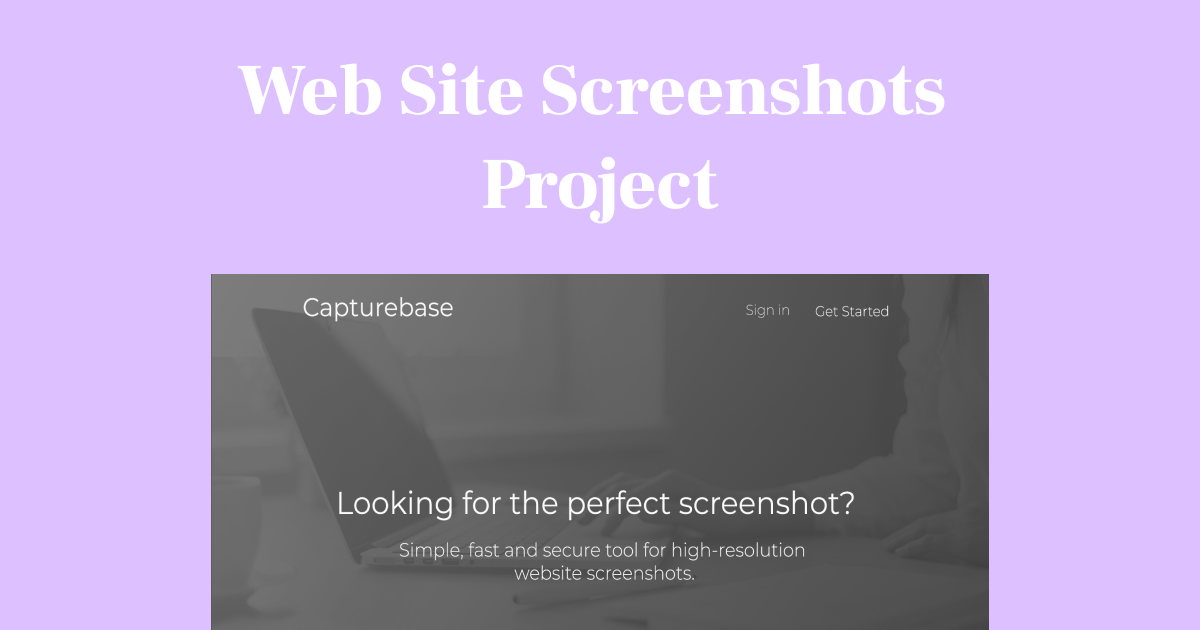
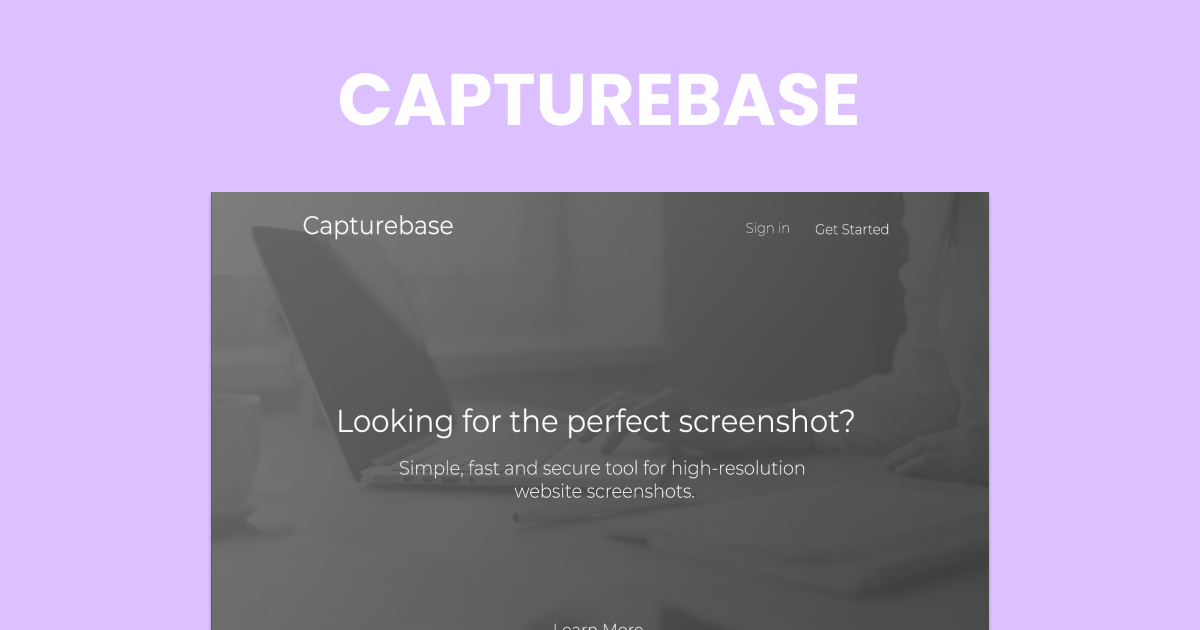
Add info

diff --git a/porfolio2.html b/porfolio2.html
@@ -73,8 +73,11 @@
                         </p>
                         <label>Screenshots from the old website.</label>
                         <img class="article-images" src="../assets/img/portfolio/article-images/old_website1.png" />
+                        <a href="../assets/img/portfolio/article-images/old_website1.png" data-gallery="portfolioGallery" class="portfolio-lightbox zoom" title="FSS"><i class="bi bi-zoom-in"></i> Zoom in</a>
                         <img class="article-images" src="../assets/img/portfolio/article-images/old_website2.png" />
+                        <a href="./assets/img/portfolio/article-images/old_website2.png" data-gallery="portfolioGallery" class="portfolio-lightbox zoom" title="FSS"><i class="bi bi-zoom-in"></i> Zoom in</a>
                         <img class="article-images" src="../assets/img/portfolio/article-images/old_website3.png" />
+                        <a href="../assets/img/portfolio/article-images/old_website3.png" data-gallery="portfolioGallery" class="portfolio-lightbox zoom" title="FSS"><i class="bi bi-zoom-in"></i>Zoom in</a>
                         <h2>Team</h2>
                         <p>To be the work done we formed a workgroup of 5 people:</p>
                         <ul>
@@ -110,19 +113,24 @@
                             a sitemap of it.
                         </p>
                         <img class="article-images" src="../assets/img/portfolio/article-images/old_structure.png" />
+                        <a href="../assets/img/portfolio/article-images/old_structure.png" data-gallery="portfolioGallery" class="portfolio-lightbox zoom" title="FSS"><i class="bi bi-zoom-in"></i>Zoom in</a>
                         <p>
                             And after we discuss what changes we will do and who will take what
                             section to edit I have created a new sitemap.
                         </p>
                         <img class="article-images" src="../assets/img/portfolio/article-images/new_structure_v.1.png" />
+                        <a href="../assets/img/portfolio/article-images/new_structure_v.1.png" data-gallery="portfolioGallery" class="portfolio-lightbox zoom" title="FSS"><i class="bi bi-zoom-in"></i>Zoom in</a>
                         <p>
                             The next step I did was to create a mockup of our main(home) page
                             based on the statistics of the most visited pages of the site and what
                             the council want's
                         </p>
                         <img class="article-images" src="../assets/img/portfolio/article-images/mockup1.png" />
+                        <a href="../assets/img/portfolio/article-images/mockup1.png" data-gallery="portfolioGallery" class="portfolio-lightbox zoom" title="FSS"><i class="bi bi-zoom-in"></i>Zoom in</a>
                         <img class="article-images" src="../assets/img/portfolio/article-images/mockup2.png" />
+                        <a href="../assets/img/portfolio/article-images/mockup2.png" data-gallery="portfolioGallery" class="portfolio-lightbox zoom" title="FSS"><i class="bi bi-zoom-in"></i>Zoom in</a>
                         <img class="article-images" src="../assets/img/portfolio/article-images/mockup3.png" />
+                        <a href="../assets/img/portfolio/article-images/mockup3.png" data-gallery="portfolioGallery" class="portfolio-lightbox zoom" title="FSS"><i class="bi bi-zoom-in"></i>Zoom in</a>
                         <p>In the mockup there are 6 sections:</p>
                         <ol>
                             <li>
@@ -176,17 +184,17 @@
                             and will be ideal for our ideas.
                         </p>
                         <img class="article-images" src="../assets/img/portfolio/article-images/temp.png" />
+                        <a href="../assets/img/portfolio/article-images/temp.png" data-gallery="portfolioGallery" class="portfolio-lightbox zoom" title="FSS"><i class="bi bi-zoom-in"></i>Zoom in</a>
                         <p>We have tried few themes but finally decided to use Hestia, because the layout and
                             customization met our needs. </p>
                         <h1>Final look</h1>
                         <p>After 2 months of work, our new site was ready.
-                            ....and this was the final result you can see here <a href="https://fss.fmi.uni-sofia.bg/">https://fss.fmi.uni-sofia.bg/</a>
+                             The final result you can see here <a class="zoom" href="https://fss.fmi.uni-sofia.bg/">https://fss.fmi.uni-sofia.bg/</a>
                         </p>
                         <img class="article-images" src="../assets/img/portfolio/article-images/image1.png" />
+                        <a href="../assets/img/portfolio/article-images/image1.png" data-gallery="portfolioGallery" class="portfolio-lightbox zoom" title="FSS"><i class="bi bi-zoom-in"></i>Zoom in</a>
                         <img class="article-images" src="../assets/img/portfolio/article-images/image2.png" />
-
-
-
+                        <a href="../assets/img/portfolio/article-images/image2.png" data-gallery="portfolioGallery" class="portfolio-lightbox zoom" title="FSS"><i class="bi bi-zoom-in"></i>Zoom in</a>
                     </div>
                 </div>
             </div>

diff --git a/index.html b/index.html
@@ -86,15 +86,13 @@
           <h3>Hello, I'm Adelina</h3>
           <p class="fst-italic">
             Currently a student at the Faculty of Mathematics and Informatics at Sofia University with a great desire to
-            develop in the field of UX / UI.
-
-            I have been interested in information technology since I was a child. In high school I participated in
-            various hackathons, competitions related to programming and extracurricular web programming course. I
-            organized and volunteered in events related to motivating and helping more women to learn about the
-            possibilities of the IT field. During the first 3 years of my studies, I actively participated in the
-            organization of various university initiatives as a member of the faculty student council. During my
-            internship as a Back-End developer, I learned a lot about the processes in a company, teamwork and software
-            development.
+            develop in the field of UX / UI. I have been interested in information technology since I was a child. In
+            high school, I participated in various hackathons, competitions related to programming, and extracurricular
+            web programming courses. I organized and volunteered in events related to motivating and helping more women
+            to learn about the possibilities of the IT field. During the first 3 years of my studies, I actively
+            participated in the organization of various university initiatives as a member of the faculty student
+            council. During my internship as a Back-End developer, I learned a lot about the processes in a company,
+            teamwork, and software development.
           </p>
           <div class="row">
             <div class="col-lg-6">
@@ -418,15 +416,25 @@
         <div class="col-lg-12 d-flex justify-content-center">
           <ul id="portfolio-flters">
             <li data-filter="*" class="filter-active">All</li>
-            <li data-filter=".filter-app">Redesign</li>
             <li data-filter=".filter-card">Case Study</li>
+            <li data-filter=".filter-app">Redesign</li>
             <li data-filter=".filter-web">Design</li>
           </ul>
         </div>
       </div>
 
       <div class="row portfolio-container">
-
+        <div class="col-lg-6 col-md-8 portfolio-item filter-card">
+          <div class="portfolio-wrap">
+            <img src="assets/img/portfolio/zh.png" class="img-fluid" alt="">
+            <div class="portfolio-info">
+              <div class="portfolio-links">
+                <a href="porfolio3.html" data-gallery="portfolioDetailsGallery" data-glightbox="type: external"
+                  class="portfolio-details-lightbox one" title="Portfolio Details">Read More
+              </div>
+            </div>
+          </div>
+        </div>
         <div class="col-lg-6 col-md-8 portfolio-item filter-app">
           <div class="portfolio-wrap">
             <img src="assets/img/portfolio/fss.png" class="img-fluid" alt="">
@@ -441,8 +449,6 @@
             </div>
           </div>
 
-          
-
         </div>
         <div class="col-lg-6 col-md-8 portfolio-item filter-web">
           <div class="portfolio-wrap">
@@ -450,11 +456,12 @@
             <div class="portfolio-info">
               <div class="portfolio-links">
                 <a href="portfolio-details.html" data-gallery="portfolioDetailsGallery" data-glightbox="type: external"
-                class="portfolio-details-lightbox one" title="Portfolio Details">Read More
+                  class="portfolio-details-lightbox one" title="Portfolio Details">Read More
               </div>
             </div>
           </div>
-        </div>  
+        </div>
+
       </div>
   </section><!-- End Portfolio Section -->
 
@@ -489,7 +496,7 @@
         </div>
 
 
-        <form action="forms/contact.php" method="post" role="form" class="php-email-form mt-4">
+        <!-- <form action="forms/contact.php" method="post" role="form" class="php-email-form mt-4">
           <div class="row">
             <div class="col-md-6 form-group">
               <input type="text" name="name" class="form-control" id="name" placeholder="Your Name" required>
@@ -510,7 +517,10 @@
             <div class="sent-message">Your message has been sent. Thank you!</div>
           </div>
           <div class="text-center"><button type="submit">Send Message</button></div>
-        </form>
+        </form> -->
+        <iframe
+          src="https://docs.google.com/forms/d/e/1FAIpQLSe9indhkBLxfg8ffLvCKX89M5hnBgzJIbThuAJ_jv4DcCe_2Q/viewform?embedded=true"
+          width="640" height="512" frameborder="0" marginheight="0" marginwidth="0">Loading…</iframe>
 
       </div>
   </section><!-- End Contact Section -->

diff --git a/porfolio3.html b/porfolio3.html
@@ -1,0 +1,81 @@
+<!DOCTYPE html>
+<html lang="en">
+
+<head>
+    <meta charset="utf-8" />
+    <meta content="width=device-width, initial-scale=1.0" name="viewport" />
+
+    <title>Portfolio Details - Personal Bootstrap Template</title>
+    <meta content="" name="description" />
+    <meta content="" name="keywords" />
+
+    <!-- Favicons -->
+    <link href="assets/img/favicon.png" rel="icon" />
+    <link href="assets/img/apple-touch-icon.png" rel="apple-touch-icon" />
+
+    <!-- Google Fonts -->
+    <link
+        href="https://fonts.googleapis.com/css?family=Open+Sans:300,300i,400,400i,600,600i,700,700i|Raleway:300,300i,400,400i,500,500i,600,600i,700,700i|Poppins:300,300i,400,400i,500,500i,600,600i,700,700i"
+        rel="stylesheet" />
+
+    <!-- Vendor CSS Files -->
+    <link href="assets/vendor/bootstrap/css/bootstrap.min.css" rel="stylesheet" />
+    <link href="assets/vendor/bootstrap-icons/bootstrap-icons.css" rel="stylesheet" />
+    <link href="assets/vendor/boxicons/css/boxicons.min.css" rel="stylesheet" />
+    <link href="assets/vendor/glightbox/css/glightbox.min.css" rel="stylesheet" />
+    <link href="assets/vendor/remixicon/remixicon.css" rel="stylesheet" />
+    <link href="assets/vendor/swiper/swiper-bundle.min.css" rel="stylesheet" />
+
+    <!-- Template Main CSS File -->
+    <link href="assets/css/style.css" rel="stylesheet" />
+
+    <!-- =======================================================
+  * Template Name: Personal - v4.6.0
+  * Template URL: https://bootstrapmade.com/personal-free-resume-bootstrap-template/
+  * Author: BootstrapMade.com
+  * License: https://bootstrapmade.com/license/
+  ======================================================== -->
+</head>
+
+<body>
+    <main id="main">
+        <!-- ======= Portfolio Details ======= -->
+        <div id="portfolio-details" class="portfolio-details">
+            <div class="container">
+                <div class="row">
+                    <div class="col-lg-12">
+                        <h1 class="portfolio-title">
+                            "Zone Hack"
+                        </h1>
+                        <img class="article-images" src="assets/img/portfolio/zh/cs-zh.png" />
+                        <!-- ///<a href="../assets/img/portfolio/cb/capturebasre-homepage.png" data-gallery="portfolioGallery" class="portfolio-lightbox zoom" title="Capturebase - Landing page"><i class="bi bi-zoom-in"></i>Zoom in</a> -->
+                       
+                    </div>
+                </div>
+            </div>
+            <!-- End Portfolio Details -->
+    </main>
+    <!-- End #main -->
+
+    <div class="credits">
+        <!-- All the links in the footer should remain intact. -->
+        <!-- You can delete the links only if you purchased the pro version. -->
+        <!-- Licensing information: https://bootstrapmade.com/license/ -->
+        <!-- Purchase the pro version with working PHP/AJAX contact form: https://bootstrapmade.com/personal-free-resume-bootstrap-template/ -->
+        Designed by <a href="https://bootstrapmade.com/">BootstrapMade</a>
+    </div>
+
+    <!-- Vendor JS Files -->
+    <script src="assets/vendor/bootstrap/js/bootstrap.bundle.min.js"></script>
+    <script src="assets/vendor/glightbox/js/glightbox.min.js"></script>
+    <script src="assets/vendor/isotope-layout/isotope.pkgd.min.js"></script>
+    <script src="assets/vendor/php-email-form/validate.js"></script>
+    <script src="assets/vendor/purecounter/purecounter.js"></script>
+    <script src="assets/vendor/swiper/swiper-bundle.min.js"></script>
+    <script src="assets/vendor/waypoints/noframework.waypoints.js"></script>
+
+    <!-- Template Main JS File -->
+    <script src="assets/js/main.js"></script>
+</body>
+
+</html>

diff --git a/portfolio-details.html b/portfolio-details.html
@@ -46,6 +46,7 @@
         <div class="row">
 
           <div class="col-lg-12">
+            <h1 class="portfolio-title">Capturebase</h1>
             <!-- <h2 class="portfolio-title">This is an example of portfolio detail</h2>
 
             <div class="portfolio-details-slider swiper">
@@ -67,8 +68,20 @@
               <div class="swiper-pagination"></div>
             </div> -->
             <img class="article-images" src="assets/img/portfolio/cb/capturebasre-homepage.png" />
+            <a href="../assets/img/portfolio/cb/capturebasre-homepage.png" data-gallery="portfolioGallery" class="portfolio-lightbox zoom" title="Capturebase - Landing page"><i class="bi bi-zoom-in"></i>Zoom in</a>
+
             <img class="article-images" src="assets/img/portfolio/cb/reg.png" />
+            <a href="../assets/img/portfolio/cb/reg.png" data-gallery="portfolioGallery" class="portfolio-lightbox zoom" title="Capturebase - Registration"><i class="bi bi-zoom-in"></i>Zoom in</a>
+
             <img class="article-images" src="assets/img/portfolio/cb/cb_log.png" />
+            <a href="../assets/img/portfolio/cb/cb_log.png" data-gallery="portfolioGallery" class="portfolio-lightbox zoom" title="Capturebase - Login"><i class="bi bi-zoom-in"></i>Zoom in</a>
+            
+            <img class="article-images" src="assets/img/portfolio/cb/cb_projects.png" />
+            <a href="../assets/img/portfolio/cb/cb_projects.png" data-gallery="portfolioGallery" class="portfolio-lightbox zoom" title="Capturebase - Folders"><i class="bi bi-zoom-in"></i>Zoom in</a>
+            
+            <img class="article-images" src="assets/img/portfolio/cb/cb_files.png" />
+            <a href="../assets/img/portfolio/cb/cb_files.png" data-gallery="portfolioGallery" class="portfolio-lightbox zoom" title="Capturebase - Files"><i class="bi bi-zoom-in"></i>Zoom in</a>
+
 
           </div>
 
@@ -76,9 +89,8 @@
             <h3>Project information</h3>
             <ul>
               <li><strong>Category</strong>: Web design</li>
-              <li><strong>Client</strong>: ASU Company</li>
-              <li><strong>Project date</strong>: 01 March, 2020</li>
-              <li><strong>Project URL</strong>: <a href="#">www.example.com</a></li>
+              <li><strong>Client</strong>:Athlon</li>
+              <li><strong>Project date</strong>: 2018</li>
             </ul>
 
             <p>

diff --git a/assets/css/style.css b/assets/css/style.css
@@ -1045,3 +1045,13 @@ display: none;
 .article-images {
   width: 100%;
 }
+
+.zoom {
+  font-size: 16px;
+    background: rgba(255, 255, 255, 0.15);
+    padding: 5px 15px;
+    display: inline-block;
+    font-weight: 600;
+    margin-bottom: 10px;
+    color: #fff;
+}
